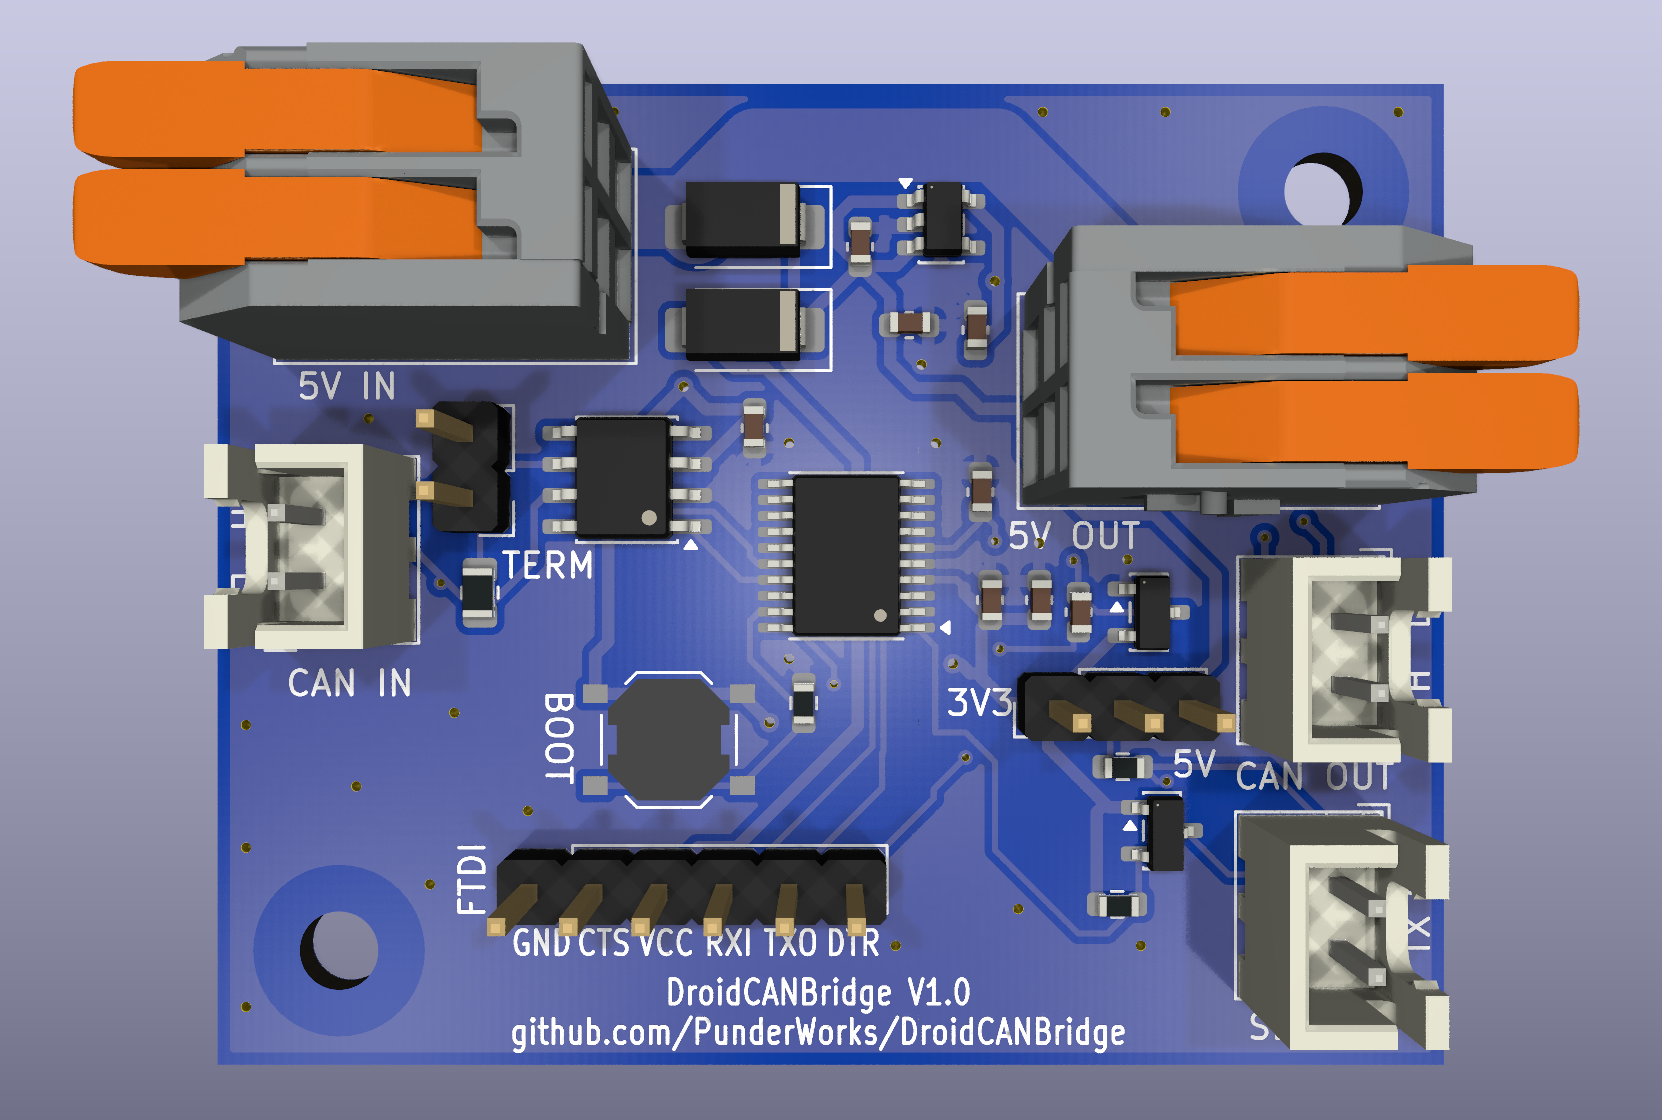
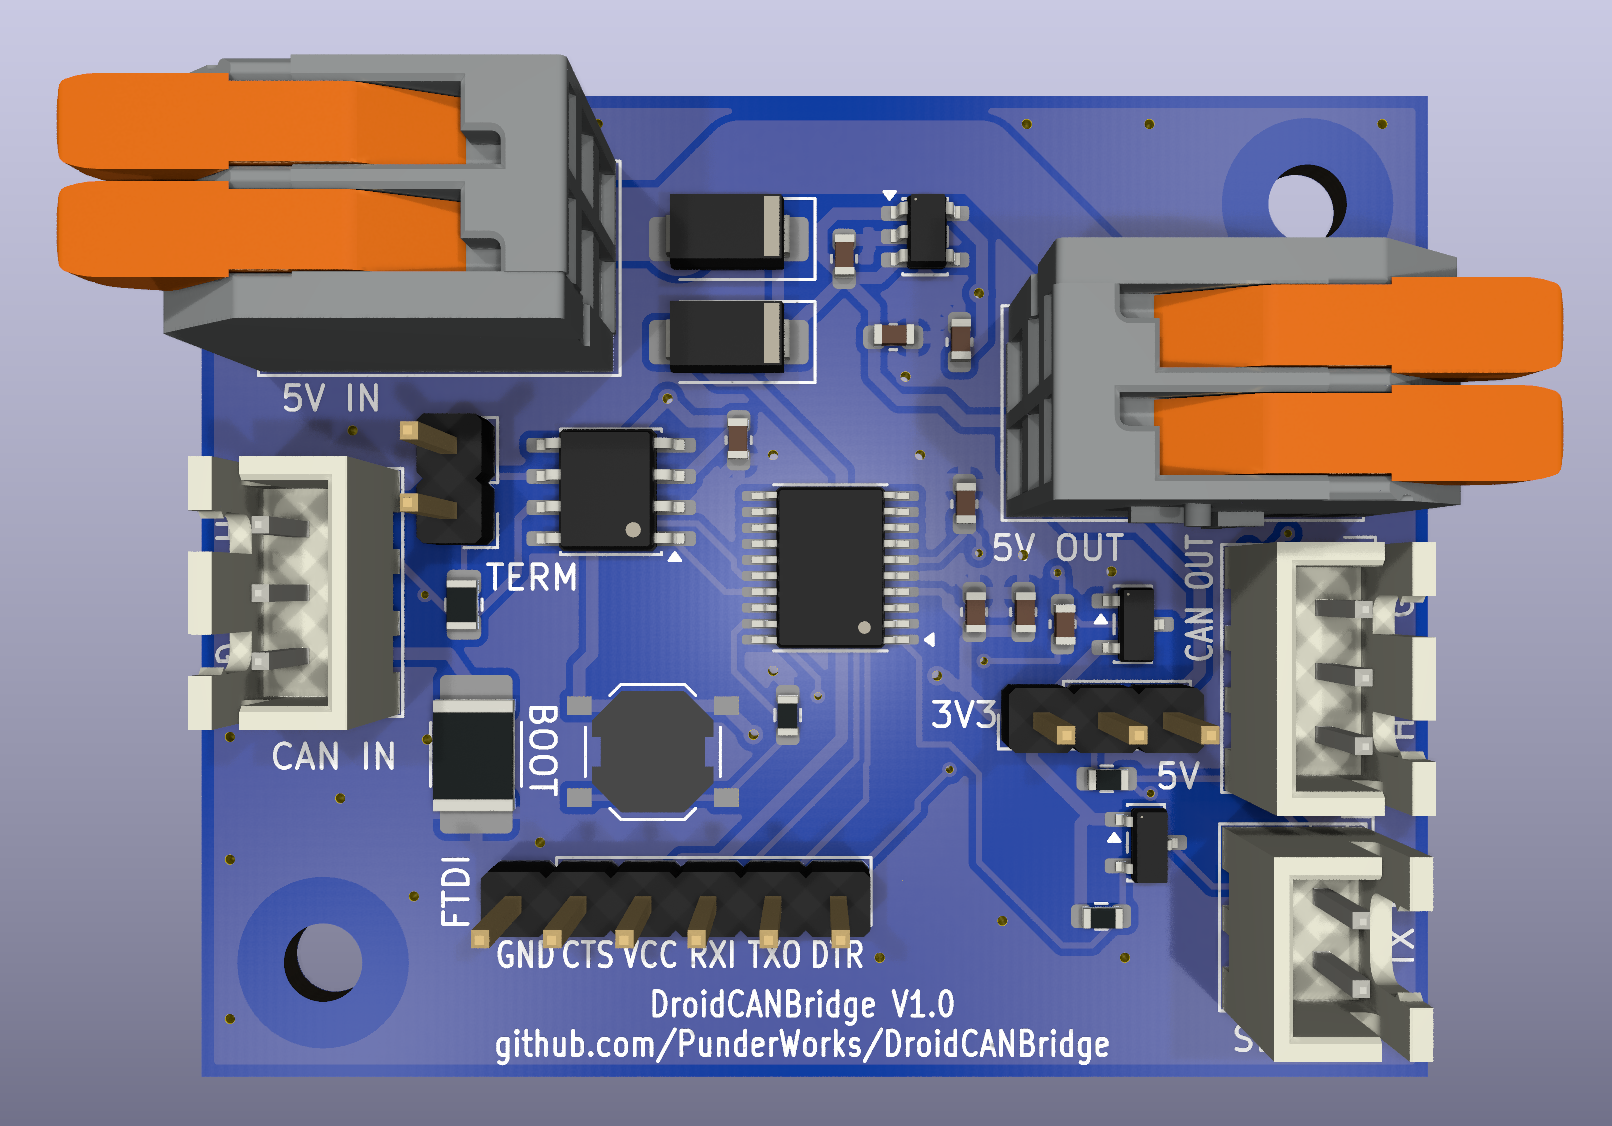
Update the board renders for the 3-pin CAN connectors

diff --git a/PCB/README.md b/PCB/README.md
@@ -276,7 +276,7 @@ Brought in line with the PunderWorks CAN standard (see Decisions): J_CAN1/J_CAN2
 added, SH_TERM/SH_VIO in the BOM. Re-checked after the change: `stackup check` 0/0/0 (33 parts,
 20 nets), PCB sync check clean, DRC with zones refilled 0 violations and 0 unconnected, F1 pads
 against Bourns p. 7. To make room, two GND stitching vias moved off F1's pads and two off the new
-edge labels. Fab files regenerated. The renders in `assets/` still show the 2-pin connectors.
+edge labels. Fab files and the renders in `assets/` regenerated.
 
 ## Fab files
 
